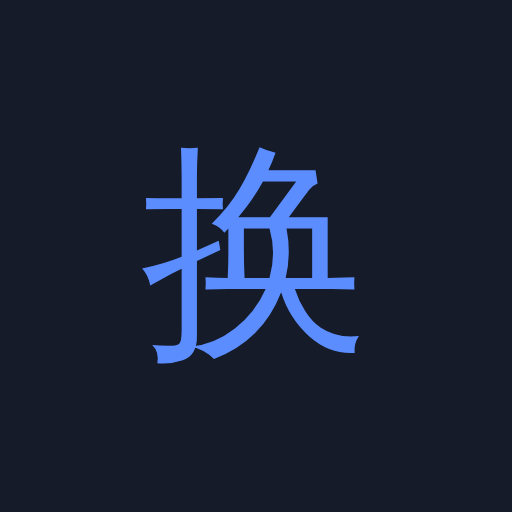
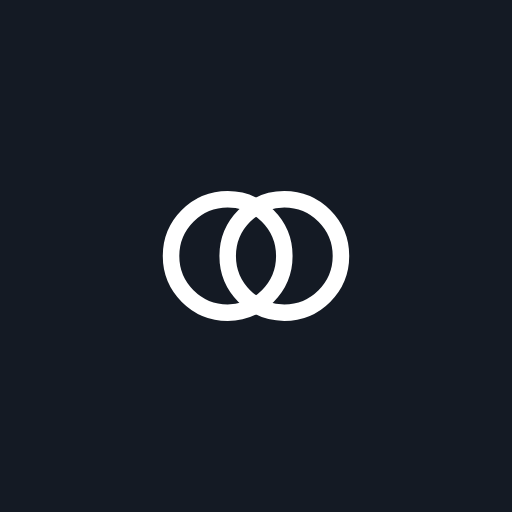
A mark instead of a character
换 was the right character and the wrong mark. Half the people this is for
cannot read it, it renders as a box wherever the font is missing, and a
home-screen icon that is a glyph is a glyph — not a thing anybody recognises
at twenty-two pixels between WeChat and a banking app.

Two circles, and the only part that matters is where they overlap. That is
what this board does: it shows you the people whose sentence answers yours and
nobody else. The mark is the mechanism rather than a picture of an exchange —
which is why it is not the two arrows every other thing called an exchange
already uses.

White on ink, not on the accent. Ink is the one that looks like a room you had
to be invited into; blue looks like software. It costs no repaint either: the
accent stays where it is, so every button, link and follow state is untouched.

board/public/mark.svg is the source and the PNGs are cut from it — favicon at
192, apple-touch at 180, 512, and a maskable 512 drawn smaller because Android
crops to a circle of about eighty per cent and anything outside it is gone.
favicon.ico is a real three-size ICO rather than a PNG with the wrong
extension.

In the pages it is inlined with currentColor and 1em, so the CSS that sized
the character sizes the mark, and every place it appears takes the colour of
the text around it. The built deck keeps the old mark: that address has been
sent to somebody and must keep serving what was sent.
[…]

Changed region(s): [[0.2812, 0.2812, 0.7188, 0.7188]]

diff --git a/board/public/enter.html b/board/public/enter.html
@@ -275,7 +275,7 @@
       </svg>
     </div>
     <div class="top">
-      <span class="mark" aria-hidden="true">换</span>
+      <span class="mark" aria-hidden="true"><svg viewBox="0 0 100 100" fill="none" stroke="currentColor" stroke-width="7" style="width:1em;height:1em;display:block" aria-hidden="true"><circle cx="38" cy="50" r="24"/><circle cx="62" cy="50" r="24"/></svg></span>
       <div>
         <h1 id="wxtitle"></h1>
         <p id="wxsub"></p>
@@ -306,7 +306,7 @@
     <p class="tag" id="hellotag"></p>
     <button class="orb" type="button" id="orb">
       <u aria-hidden="true"></u><s aria-hidden="true"></s>
-      <i aria-hidden="true">换</i>
+      <i aria-hidden="true"><svg viewBox="0 0 100 100" fill="none" stroke="currentColor" stroke-width="7" style="width:1em;height:1em;display:block" aria-hidden="true"><circle cx="38" cy="50" r="24"/><circle cx="62" cy="50" r="24"/></svg></i>
       <b class="badge" aria-hidden="true"></b>
     </button>
     <h1 class="lead" id="hellolead"></h1>
@@ -322,7 +322,7 @@
   <!-- THE DOOR ITSELF. -->
   <section id="door" hidden>
     <div class="top">
-      <span class="mark" aria-hidden="true">换</span>
+      <span class="mark" aria-hidden="true"><svg viewBox="0 0 100 100" fill="none" stroke="currentColor" stroke-width="7" style="width:1em;height:1em;display:block" aria-hidden="true"><circle cx="38" cy="50" r="24"/><circle cx="62" cy="50" r="24"/></svg></span>
       <div>
         <h1 id="doortitle"></h1>
         <p id="doorsub"></p>
@@ -396,7 +396,7 @@
 
   <section id="inside" hidden>
     <div class="top">
-      <span class="mark" aria-hidden="true">换</span>
+      <span class="mark" aria-hidden="true"><svg viewBox="0 0 100 100" fill="none" stroke="currentColor" stroke-width="7" style="width:1em;height:1em;display:block" aria-hidden="true"><circle cx="38" cy="50" r="24"/><circle cx="62" cy="50" r="24"/></svg></span>
       <div>
         <h1 id="intitle"></h1>
         <p id="insub"></p>
@@ -406,6 +406,8 @@
     <p class="zh" id="inzh"></p>
     <a class="go wide" id="ingo" href="/browse"></a>
     <p class="note" id="innote"></p>
+    <!-- The key, one line under the thing most people will actually do. -->
+    <p class="note" id="inkey"></p>
   </section>
 </main>
 
@@ -722,6 +724,7 @@ function words() {
   $("inzh").textContent = T("door.inZh");
   $("ingo").textContent = T("door.inGo");
   $("innote").textContent = T("door.inNote");
+  $("inkey").textContent = T("door.inKey");
   drawBoxes();
 }
 

diff --git a/board/public/i18n.js b/board/public/i18n.js
@@ -2638,8 +2638,14 @@ export const STRINGS = {
   "door.inZh":         ["", ""],
   "door.inGo":         ["Have a look around", "进去看看"],
   /* Where somebody learns what a key is: the one moment they have one. */
-  "door.inNote":       ["Before you close this, save your key \u2014 Profile \u2192 Show my key. There are no accounts here, so that line is the only way to be you again on another phone.",
-                        "关掉之前把钥匙存好——「我的」→「显示我的钥匙」。这里没有账号，换个手机想还是你自己，只能靠那一行。"],
+  /* IT SAID THE KEY WAS THE ONLY WAY BACK, which was true when it was written
+     and is not now. Somebody reading this is thirty seconds old here, and the
+     first thing this board asks them to do should be the thing most of them
+     will actually do. The key is a line down. */
+  "door.inNote":       ["Before you close this, leave an address \u2014 the first thing on Browse. There are no accounts here, so without one, a new phone loses everything you write.",
+                        "关掉之前先留个邮箱——「看看」里第一条就是。这里没有账号，不留的话，换了手机你写的东西就都没了。"],
+  "door.inKey":        ["Or save your key: Profile \u2192 Show my key.",
+                        "或者把钥匙存下来：「我的」→「显示我的钥匙」。"],
   /* THE TRAY. Everything addressed to this person, in one place — follows and
      the card of the day. The report card below it is what they are; this is
      what has arrived. */

diff --git a/board/public/index.html b/board/public/index.html
@@ -1773,7 +1773,7 @@
          behind the bell. -->
     <section class="prof" id="prof" hidden>
     <button class="profhead" type="button" id="profhead" aria-controls="profbody">
-    <i class="profmark" aria-hidden="true">换</i>
+    <i class="profmark" aria-hidden="true"><svg viewBox="0 0 100 100" fill="none" stroke="currentColor" stroke-width="7" style="width:1em;height:1em;display:block" aria-hidden="true"><circle cx="38" cy="50" r="24"/><circle cx="62" cy="50" r="24"/></svg></i>
     <span class="proftext">
     <b id="proftitle"></b>
     <em id="profsub"></em>

diff --git a/board/public/abroad.html b/board/public/abroad.html
@@ -56,7 +56,7 @@
 <div class="top">
   <div class="wrap">
     <a class="brand" href="/abroad">
-      <i>换</i>
+      <i><svg viewBox="0 0 100 100" fill="none" stroke="currentColor" stroke-width="7" style="width:1em;height:1em;display:block" aria-hidden="true"><circle cx="38" cy="50" r="24"/><circle cx="62" cy="50" r="24"/></svg></i>
       <span><b id="brandname">The Exchange</b><small>交换</small></span>
     </a>
     <span id="langslot" style="margin-left:auto;display:flex;gap:.6rem;align-items:center"></span>

diff --git a/board/public/landing.html b/board/public/landing.html
@@ -145,7 +145,7 @@
 <div class="top">
   <div class="wrap">
     <a class="brand" href="/">
-      <i>换</i>
+      <i><svg viewBox="0 0 100 100" fill="none" stroke="currentColor" stroke-width="7" style="width:1em;height:1em;display:block" aria-hidden="true"><circle cx="38" cy="50" r="24"/><circle cx="62" cy="50" r="24"/></svg></i>
       <span><b id="brandname">The Exchange</b><small>交换</small></span>
     </a>
     <span id="langslot" style="margin-left:auto;display:flex;gap:.6rem;align-items:center"></span>

diff --git a/board/public/privacy.html b/board/public/privacy.html
@@ -37,7 +37,7 @@
 <div class="top">
   <div class="wrap">
     <a class="brand" href="/feed">
-      <i>换</i>
+      <i><svg viewBox="0 0 100 100" fill="none" stroke="currentColor" stroke-width="7" style="width:1em;height:1em;display:block" aria-hidden="true"><circle cx="38" cy="50" r="24"/><circle cx="62" cy="50" r="24"/></svg></i>
       <span><b>The Exchange</b><small>交换</small></span>
     </a>
     <span id="langslot" style="margin-left:auto;display:flex;gap:.6rem;align-items:center"></span>

diff --git a/board/public/rules.html b/board/public/rules.html
@@ -38,7 +38,7 @@
 <div class="top">
   <div class="wrap">
     <a class="brand" href="/feed">
-      <i>换</i>
+      <i><svg viewBox="0 0 100 100" fill="none" stroke="currentColor" stroke-width="7" style="width:1em;height:1em;display:block" aria-hidden="true"><circle cx="38" cy="50" r="24"/><circle cx="62" cy="50" r="24"/></svg></i>
       <span><b>The Exchange</b><small>交换</small></span>
     </a>
     <span id="langslot" style="margin-left:auto;display:flex;gap:.6rem;align-items:center"></span>

diff --git a/board/public/room.html b/board/public/room.html
@@ -331,7 +331,7 @@
 
 <div class="top">
   <div class="wrap">
-    <span class="mark">换</span>
+    <span class="mark"><svg viewBox="0 0 100 100" fill="none" stroke="currentColor" stroke-width="7" style="width:1em;height:1em;display:block" aria-hidden="true"><circle cx="38" cy="50" r="24"/><circle cx="62" cy="50" r="24"/></svg></span>
     <b id="brandname">The Exchange</b>
     <span id="langslot" style="margin-left:auto"></span>
     <span class="pill" id="statepill" hidden></span>

diff --git a/board/public/join.html b/board/public/join.html
@@ -64,7 +64,7 @@
 
 <div class="jwrap">
   <div class="jbrand">
-    <i>换</i>
+    <i><svg viewBox="0 0 100 100" fill="none" stroke="currentColor" stroke-width="7" style="width:1em;height:1em;display:block" aria-hidden="true"><circle cx="38" cy="50" r="24"/><circle cx="62" cy="50" r="24"/></svg></i>
     <span><b>The Exchange</b><small>交换</small></span>
     <span class="l" id="langslot"></span>
   </div>

diff --git a/board/public/agents.html b/board/public/agents.html
@@ -100,7 +100,7 @@
 
 <div class="aw">
   <div class="abrand">
-    <i>换</i>
+    <i><svg viewBox="0 0 100 100" fill="none" stroke="currentColor" stroke-width="7" style="width:1em;height:1em;display:block" aria-hidden="true"><circle cx="38" cy="50" r="24"/><circle cx="62" cy="50" r="24"/></svg></i>
     <span><b>The Exchange</b><small>交换</small></span>
     <span class="l" id="langslot"></span>
   </div>

diff --git a/board/public/offer.html b/board/public/offer.html
@@ -102,7 +102,7 @@
 
 <div class="sheet">
   <div class="brandrow">
-    <i>换</i><b>The Exchange</b>
+    <i><svg viewBox="0 0 100 100" fill="none" stroke="currentColor" stroke-width="7" style="width:1em;height:1em;display:block" aria-hidden="true"><circle cx="38" cy="50" r="24"/><circle cx="62" cy="50" r="24"/></svg></i><b>The Exchange</b>
     <span id="langslot"></span>
   </div>
 
